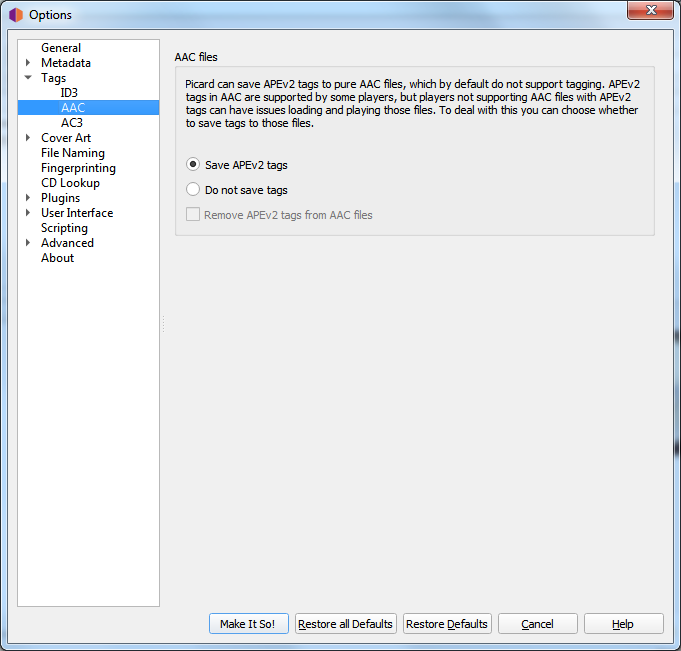
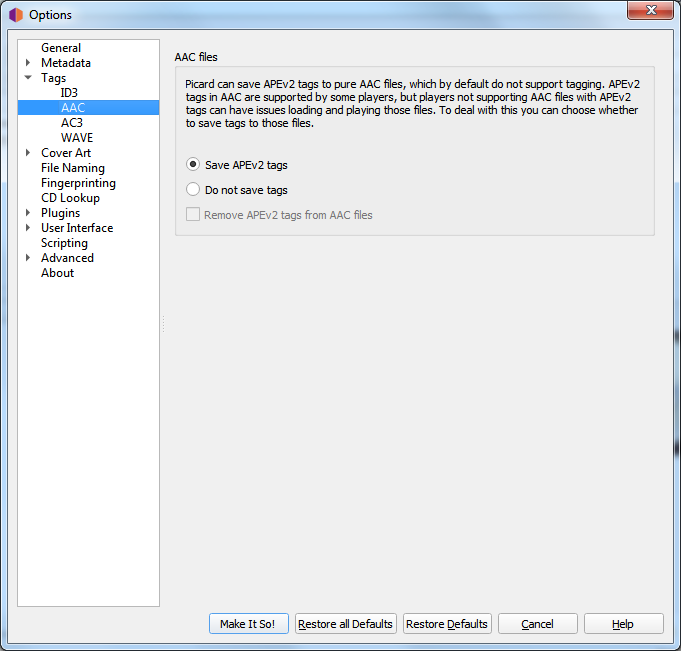
Add WAVE tag options page

Changed region(s): [[0.0617, 0.1843, 0.185, 0.4301]]

diff --git a/source/config/options_tags_compatibility_wave.rst b/source/config/options_tags_compatibility_wave.rst
@@ -1,0 +1,42 @@
+.. MusicBrainz Picard Documentation Project
+.. Prepared in 2020 by Bob Swift (bswift@rsds.ca)
+.. This MusicBrainz Picard User Guide is licensed under CC0 1.0
+.. A copy of the license is available at https://creativecommons.org/publicdomain/zero/1.0
+
+
+WAVE Files
+==========
+
+.. index::
+   single: configuration; wave tag options
+
+.. image:: ../images/options-tags-compatibility-wave.png
+   :width: 100 %
+
+WAVE by itself as a standard only supports the INFO chunk tags, which are very limited.  In addition, INFO chunks
+don't have any proper support for encoding.
+
+In all cases Picard will write ID3 tags to the WAVE files. This is supported by quite a few tools; however, it is
+not supported universally.  Tools not supporting ID3 tags should just ignore them.  If possible, this is likely
+the best option to have proper tags in WAVE files. For compatibility with software that does not support ID3v2 tags,
+Picard can also save `Resource Interchange File Format <https://wikipedia.org/wiki/Resource_Interchange_File_Format>`_
+(RIFF) INFO tags to WAVE files.  RIFF INFO is read and written only as an extra. If there are no existing ID3 tags,
+the data from RIFF INFO will be used.  When saving files, RIFF INFO will be written in addition to the ID3v2 tags.
+
+Picard's use of the RIFF INFO tags is determined by the following configuration settings:
+
+**Also include RIFF INFO tags in the files**
+
+   Picard will save the RIFF INFO tags to the files.
+
+**Remove existing RIFF INFO tags from WAVE files**
+
+   Picard will remove any existing RIFF INFO tags from the WAVE files.
+   This setting is ignored if the previous setting is enabled to allow writing the RIFF INFO tags to the files.
+
+**RIFF INFO Text Encoding**
+
+   This setting allows you to specify the encoding used for the RIFF INFO tags written.  The default setting is
+   Windows-1252 encoding.  Picard can also use UTF-8 as an alternative, which allows for full language support,
+   but it depends on the software reading it.  Typically, if the software supports this, it will read the ID3 tags
+   anyway so there is not much to be gained.

diff --git a/source/troubleshooting/no_coverart.rst b/source/troubleshooting/no_coverart.rst
@@ -58,6 +58,14 @@ Coverart that is saved with the files isn't displayed
 
    You should also confirm that your player supports the version of the tags being written.
 
+   .. seealso::
+
+      For more information please see:
+      :doc:`../config/options_tags_compatibility_aac` /
+      :doc:`../config/options_tags_compatibility_ac3` /
+      :doc:`../config/options_tags_compatibility_id3` /
+      :doc:`../config/options_tags_compatibility_wave`
+
 **Embedded cover image too large**
 
    Even if your cover art image has been properly embedded in the file, it's possible that your player has trouble

diff --git a/source/troubleshooting/missing_tags.rst b/source/troubleshooting/missing_tags.rst
@@ -36,4 +36,5 @@ There are typically four reasons that tags may not be written or updated when fi
 **The file type does not support writing tags**
 
    Confirm that the file type that you are writing actually supports the tags that are to be written.  For example,
-   WAV files cannot be tagged due to the lack of a standard for doing so.
+   WAV files cannot be tagged due to the lack of a standard for doing so.  Please see the
+   :doc:`../config/options_tags_compatibility_wave` section for additional information.

diff --git a/source/config/options_tags.rst b/source/config/options_tags.rst
@@ -31,7 +31,8 @@ Tag Options
       :doc:`options_before_tagging` /
       :doc:`options_tags_compatibility_id3` /
       :doc:`options_tags_compatibility_aac` /
-      :doc:`options_tags_compatibility_ac3`
+      :doc:`options_tags_compatibility_ac3` /
+      :doc:`options_tags_compatibility_wave`
 
 .. toctree::
    :hidden:
@@ -40,3 +41,4 @@ Tag Options
    options_tags_compatibility_id3
    options_tags_compatibility_aac
    options_tags_compatibility_ac3
+   options_tags_compatibility_wave
